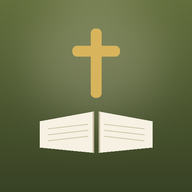
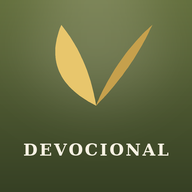
Add files via upload

Changed region(s): [[0.125, 0.125, 0.9062, 0.8125]]

diff --git a/index.html b/index.html
@@ -239,7 +239,7 @@ textarea.inp{resize:vertical;min-height:70px;line-height:1.4}
       <div class="li-msg" id="li-msg"></div>
       <button class="btn btn-primary" id="li-btn" onclick="submitAuth()">Entrar</button>
       <div class="or">OU</div>
-      <button class="btn btn-social" onclick="toast('O login com Google será ativado em breve.')"><svg width="20" height="20" viewBox="0 0 24 24"><path fill="#4285F4" d="M22.5 12.2c0-.7-.1-1.4-.2-2H12v3.9h5.9a5 5 0 0 1-2.2 3.3v2.7h3.6c2.1-2 3.2-4.8 3.2-7.9z"/><path fill="#34A853" d="M12 23c2.9 0 5.4-1 7.2-2.6l-3.6-2.7c-1 .7-2.3 1-3.6 1-2.8 0-5.1-1.9-6-4.4H2.3v2.8A11 11 0 0 0 12 23z"/><path fill="#FBBC05" d="M6 14.3a6.6 6.6 0 0 1 0-4.2V7.3H2.3a11 11 0 0 0 0 9.8L6 14.3z"/><path fill="#EA4335" d="M12 5.5c1.6 0 3 .5 4.1 1.6l3.1-3.1A11 11 0 0 0 2.3 7.3L6 10.1c.9-2.6 3.2-4.6 6-4.6z"/></svg> Continuar com Google</button>
+      <button class="btn btn-social" onclick="doGoogle()"><svg width="20" height="20" viewBox="0 0 24 24"><path fill="#4285F4" d="M22.5 12.2c0-.7-.1-1.4-.2-2H12v3.9h5.9a5 5 0 0 1-2.2 3.3v2.7h3.6c2.1-2 3.2-4.8 3.2-7.9z"/><path fill="#34A853" d="M12 23c2.9 0 5.4-1 7.2-2.6l-3.6-2.7c-1 .7-2.3 1-3.6 1-2.8 0-5.1-1.9-6-4.4H2.3v2.8A11 11 0 0 0 12 23z"/><path fill="#FBBC05" d="M6 14.3a6.6 6.6 0 0 1 0-4.2V7.3H2.3a11 11 0 0 0 0 9.8L6 14.3z"/><path fill="#EA4335" d="M12 5.5c1.6 0 3 .5 4.1 1.6l3.1-3.1A11 11 0 0 0 2.3 7.3L6 10.1c.9-2.6 3.2-4.6 6-4.6z"/></svg> Continuar com Google</button>
       <button class="btn btn-social" onclick="toast('O login com Apple será ativado em breve.')"><svg width="18" height="20" viewBox="0 0 24 24" fill="currentColor"><path d="M17.05 12.5c0-2.7 2.2-4 2.3-4.05a4.9 4.9 0 0 0-3.86-2.1c-1.64-.17-3.2.96-4.03.96-.83 0-2.11-.94-3.47-.91A5.13 5.13 0 0 0 3.7 9.06c-1.86 3.23-.47 8 1.33 10.6.88 1.28 1.93 2.7 3.3 2.65 1.33-.05 1.83-.85 3.43-.85s2.05.85 3.45.82c1.43-.02 2.33-1.3 3.2-2.58a10.6 10.6 0 0 0 1.45-2.98c-.03-.02-2.78-1.07-2.81-4.22zM14.5 4.4A4.8 4.8 0 0 0 15.6 1a4.86 4.86 0 0 0-3.16 1.63 4.55 4.55 0 0 0-1.14 3.3 4.02 4.02 0 0 0 3.2-1.53z"/></svg> Continuar com Apple</button>
       <div class="li-toggle" id="li-toggle">Não tem conta? <b onclick="toggleMode()">Cadastre-se</b></div>
     </div>
@@ -493,6 +493,10 @@ async function submitAuth(){
   }finally{ btn.disabled=false; }
 }
 async function doLogout(){ closeDrawer(); speechSynthesis.cancel(); me=null;isAdmin=false; await sb.auth.signOut(); session=null; go('login'); }
+async function doGoogle(){
+  const {error}=await sb.auth.signInWithOAuth({provider:'google',options:{redirectTo:window.location.origin+window.location.pathname}});
+  if(error) toast('Erro no login Google: '+error.message);
+}
 
 /* ---------- navigation ---------- */
 function go(id){